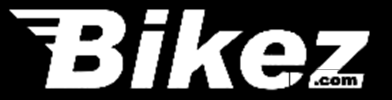
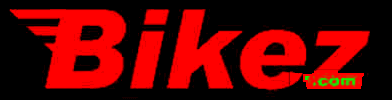
feat(pipeline): remove both bikez watermarks by inverting their alpha blends

diff --git a/src/bikez_crawler/pipeline/watermark.py b/src/bikez_crawler/pipeline/watermark.py
@@ -1,14 +1,14 @@
 """bikez.com watermark removal.
 
-Two watermarks are stamped on the poster images. The large translucent "Bikez.com"
-overlay is undone exactly by inverting its alpha blend, so the pixels underneath are
-recovered rather than repainted. The opaque bottom-right logo box can't be inverted and
-is inpainted instead.
+Both watermarks stamped on the poster images are alpha blends of a fixed graphic, so
+each is undone exactly by inverting its blend: the pixels underneath are recovered
+rather than repainted.
 
-Inpainting uses LaMa (``simple_lama_inpainting``), which reconstructs textured
-backgrounds (roads, foliage, studio gradients) far better than classical inpainting.
-``cv2.inpaint`` (Telea) is the fallback when LaMa can't be loaded or fails on a given
-image, since it's ~200x faster but leaves a visible smear on non-flat backgrounds.
+If the corner logo isn't found (e.g. a different logo version) that box is inpainted
+instead. Inpainting uses LaMa (``simple_lama_inpainting``), which reconstructs textured
+backgrounds far better than classical inpainting. ``cv2.inpaint`` (Telea) is the
+fallback when LaMa can't be loaded or fails on a given image, since it's ~200x faster
+but leaves a visible smear on non-flat backgrounds.
 """
 
 from __future__ import annotations
@@ -41,13 +41,31 @@ CENTER_MASK_PATH = Path(__file__).resolve().parent / "assets" / "center_watermar
 _CENTER_MASK_ANCHOR_X = 820
 _CENTER_MASK_ANCHOR_Y = 562
 
-# sRGB blend: stamped = (1 - ALPHA * mask) * original + ALPHA * mask * COLOR
+# sRGB blend: stamped = (1 - ALPHA * mask) * original + ALPHA * mask * COLOR. The mask
+# PNG holds the "Bikez" letters and the plate behind ".com" in its red channel, and the
+# near-white ".com" text on that plate, with its own opacity and colour, in its green.
 _CENTER_ALPHA = 0.0997
 _CENTER_COLOR = 195.8
+_CENTER_COM_ALPHA = 0.073
+_CENTER_COM_COLOR = 255.0
 
 # Minimum correlation between the mask and the image's edges before the inversion is
 # applied; the stamp measures 0.07-0.8 on every sample and a misplaced mask ~0.005.
 _CENTER_MIN_EVIDENCE = 0.03
+
+CORNER_LAYER_PATH = Path(__file__).resolve().parent / "assets" / "corner_watermark.npz"
+
+# The corner logo is an exact 269x110 rectangle, 10px in from the bottom-right corner,
+# that keeps half of the photo: stamped = _CORNER_KEEP * original + layer.
+_CORNER_BOX_INSET = 10
+_CORNER_KEEP = 127 / 255
+
+# Minimum correlation between the logo layer's edges and the image's; the logo measures
+# 0.80-0.93 on every sample and a shifted position <0.09.
+_CORNER_MIN_EVIDENCE = 0.4
+
+# Inverting the blend doubles the JPEG noise, so the box is lightly denoised.
+_CORNER_DENOISE = (5, 30, 1.5)
 
 _INPAINT_RADIUS = 3
 
@@ -63,14 +81,15 @@ def watermark_mask(size: tuple[int, int]) -> Image.Image:
 
 
 def _center_mask(canvas: np.ndarray, width: int, height: int) -> np.ndarray | None:
-    """Full-frame float mask (0-1) of the center overlay, or ``None`` if it is off-image."""
+    """Full-frame float masks (0-1, one channel per layer) of the center overlay, or
+    ``None`` if it is off-image."""
     x0 = width - _CENTER_MASK_ANCHOR_X
     y0 = height - _CENTER_MASK_ANCHOR_Y
     xs, ys = max(0, x0), max(0, y0)
     xe, ye = min(width, x0 + canvas.shape[1]), min(height, y0 + canvas.shape[0])
     if xe <= xs or ye <= ys:
         return None
-    mask = np.zeros((height, width), np.float32)
+    mask = np.zeros((height, width, canvas.shape[2]), np.float32)
     mask[ys:ye, xs:xe] = canvas[ys - y0 : ye - y0, xs - x0 : xe - x0]
     return mask
 
@@ -79,7 +98,8 @@ def _center_evidence(pixels: np.ndarray, mask: np.ndarray) -> float | None:
     """Correlation between the mask's edges and the image's edges, signed so that the
     overlay's lightening of dark areas and darkening of bright areas both count as
     agreement. ``None`` when too little of the overlay is inside the image."""
-    height, width = mask.shape
+    height, width = mask.shape[:2]
+    mask = mask.max(axis=2)
     gray = pixels.mean(axis=2)
     sign = np.sign(_CENTER_COLOR - cv2.GaussianBlur(gray, (0, 0), 4))
     image_edges = np.clip(gray - cv2.GaussianBlur(gray, (0, 0), 3), -10, 10) * sign
@@ -109,15 +129,46 @@ def _remove_center_watermark(image: Image.Image, canvas: np.ndarray) -> Image.Im
         logger.info("center watermark not detected (evidence=%s)", evidence)
         return image
 
-    alpha = (mask * _CENTER_ALPHA)[..., None]
-    restored = (pixels - alpha * _CENTER_COLOR) / (1 - alpha)
+    letters = mask[..., 0:1] * _CENTER_ALPHA
+    com = mask[..., 1:2] * _CENTER_COM_ALPHA
+    restored = (pixels - letters * _CENTER_COLOR - com * _CENTER_COM_COLOR) / (1 - letters - com)
     logger.info("center watermark removed (evidence=%.3f)", evidence)
     return Image.fromarray(np.clip(np.rint(restored), 0, 255).astype(np.uint8))
 
 
+def _remove_corner_logo(image: Image.Image, layer: np.ndarray) -> Image.Image | None:
+    """The image with the corner logo blend inverted, or ``None`` if the logo isn't there."""
+    box_height, box_width = layer.shape[:2]
+    y1, x1 = image.height - _CORNER_BOX_INSET, image.width - _CORNER_BOX_INSET
+    y0, x0 = y1 - box_height, x1 - box_width
+    if y0 < 0 or x0 < 0:
+        return None
+
+    pixels = np.asarray(image, dtype=np.float32)
+    box = pixels[y0:y1, x0:x1]
+
+    layer_gray, box_gray = layer.mean(axis=2), box.mean(axis=2)
+    a = layer_gray - cv2.GaussianBlur(layer_gray, (0, 0), 2)
+    b = box_gray - cv2.GaussianBlur(box_gray, (0, 0), 2)
+    a, b = a - a.mean(), b - b.mean()
+    denominator = float(np.sqrt((a * a).sum() * (b * b).sum()))
+    evidence = float((a * b).sum() / denominator) if denominator > 1e-6 else 0.0
+    if evidence < _CORNER_MIN_EVIDENCE:
+        logger.info("corner logo not detected (evidence=%.3f)", evidence)
+        return None
+
+    restored = np.clip((box - layer) / _CORNER_KEEP, 0, 255)
+    diameter, sigma_color, sigma_space = _CORNER_DENOISE
+    restored = cv2.bilateralFilter(restored, diameter, sigma_color, sigma_space)
+    out = pixels.copy()
+    out[y0:y1, x0:x1] = restored
+    logger.info("corner logo removed (evidence=%.3f)", evidence)
+    return Image.fromarray(np.clip(np.rint(out), 0, 255).astype(np.uint8))
+
+
 class WatermarkRemover:
-    """Loads the LaMa model and the center-watermark mask once per process and reuses
-    them across images."""
+    """Loads the LaMa model and the watermark assets once per process and reuses them
+    across images."""
 
     def __init__(self) -> None:
         self._lama: Any | None = None
@@ -130,19 +181,36 @@ class WatermarkRemover:
             )
 
         self._center_canvas: np.ndarray | None = None
-        canvas = cv2.imread(str(CENTER_MASK_PATH), cv2.IMREAD_GRAYSCALE)
-        if canvas is None:
+        try:
+            with Image.open(CENTER_MASK_PATH) as mask_image:
+                self._center_canvas = np.asarray(mask_image.convert("RGB"), dtype=np.float32)[..., :2] / 255.0
+        except OSError:
             logger.warning(
                 "Failed to load center watermark mask from %s; center watermark will not be removed",
                 CENTER_MASK_PATH,
+                exc_info=True,
             )
-        else:
-            self._center_canvas = canvas.astype(np.float32) / 255.0
+
+        self._corner_layer: np.ndarray | None = None
+        try:
+            with np.load(CORNER_LAYER_PATH) as assets:
+                self._corner_layer = assets["layer"].astype(np.float32)
+        except OSError:
+            logger.warning(
+                "Failed to load corner logo layer from %s; the corner logo will be inpainted",
+                CORNER_LAYER_PATH,
+                exc_info=True,
+            )
 
     def remove(self, image: Image.Image) -> Image.Image:
         rgb = image.convert("RGB")
         if self._center_canvas is not None:
             rgb = _remove_center_watermark(rgb, self._center_canvas)
+
+        if self._corner_layer is not None:
+            restored = _remove_corner_logo(rgb, self._corner_layer)
+            if restored is not None:
+                return restored
 
         mask = watermark_mask(rgb.size)
         if self._lama is not None:
@@ -183,7 +251,7 @@ def _run_lama(model: Any, image: Image.Image, mask: Image.Image) -> Image.Image:
         inpainted = model(image_t, mask_t)
     result = inpainted[0].permute(1, 2, 0).detach().cpu().numpy()
     result = np.clip(result * 255, 0, 255).astype(np.uint8)
-    return Image.fromarray(result)
+    return Image.fromarray(result[: image.height, : image.width])
 
 
 def _cv2_inpaint(image: Image.Image, mask: Image.Image) -> Image.Image:
